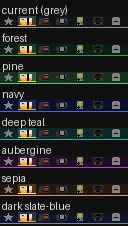
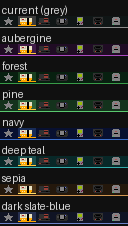
Picker: default theme aubergine — strongest grey-accent contrast
Reorders TAB_THEMES[] so aubergine sits at index 0. The picker_pref_t
.theme byte loads as 0 from any /.picker_view file (including ones
written before the theme byte existed and any written between the
theme-selector commit and this one), so this re-default applies
without a migration. Other themes still selectable via the picker
menu's Theme row.

Reordered both the C table in nes_picker.c and the Python source of
truth in tools/render_tab_themes.py so the next render-and-paste
round-trip stays consistent.

diff --git a/tools/render_tab_themes.py b/tools/render_tab_themes.py
@@ -56,14 +56,19 @@ ACTIVE_INDEX = 1   # which tab is "active" in the mockups — NES (slot 1 after 
 # but staying in the same colour family as the cells so it doesn't
 # look like a random accent stripe. Underline keeps the warm
 # yellow/orange accent (the "active tab" affordance is universal).
+# Order matters: index 0 is the default for new installs and for old
+# /.picker_view files written before the theme byte existed (the
+# previously-padding byte loads as 0). Aubergine wins as default
+# because the contrast against the icon greys is the strongest of
+# the eight options.
 THEMES = [
     # name,            inactive_bg,    active_bg,      underline,        separator
     ("current (grey)", (16, 22, 22),   (60, 60, 60),   (255, 166,   0), (140, 140, 140)),
+    ("aubergine",      (32, 12, 36),   (64, 28, 72),   (255, 200,  60), (170,  72, 190)),
     ("forest",         ( 8, 32, 16),   (24, 64, 32),   (255, 166,   0), ( 56, 156,  72)),
     ("pine",           (20, 50, 28),   (44, 96, 56),   (255, 200,  60), ( 90, 200, 110)),
     ("navy",           ( 8, 16, 48),   (24, 44, 88),   (255, 166,   0), ( 60, 110, 200)),
     ("deep teal",      ( 8, 40, 40),   (24, 76, 76),   (255, 200,  60), ( 50, 170, 170)),
-    ("aubergine",      (32, 12, 36),   (64, 28, 72),   (255, 200,  60), (170,  72, 190)),
     ("sepia",          (36, 24, 12),   (76, 52, 24),   (255, 220, 100), (210, 150,  80)),
     ("dark slate-blue",(16, 20, 36),   (40, 48, 80),   (255, 166,   0), (110, 130, 200)),
 ]

diff --git a/device/nes_picker.c b/device/nes_picker.c
@@ -3253,12 +3253,16 @@ typedef struct {
 
 #define TAB_THEME_COUNT 7
 
+/* Index 0 is the default for new installs and for /.picker_view
+ * files written before the theme byte existed (the previously-padding
+ * byte loads as 0). Aubergine wins as default — strongest contrast
+ * against the icons' grey accents of the seven options. */
 static const tab_theme_t TAB_THEMES[TAB_THEME_COUNT] = {
+    { /* aubergine      */ 0x2064, 0x40e9, 0xfe27, 0xaa57, "aubergine" },
     { /* forest         */ 0x0902, 0x1a04, 0xfd20, 0x3ce9, "forest" },
     { /* pine           */ 0x1183, 0x2b07, 0xfe27, 0x5e2d, "pine" },
     { /* navy           */ 0x0886, 0x196b, 0xfd20, 0x3b78, "navy" },
     { /* deep teal      */ 0x0945, 0x1a69, 0xfe27, 0x3555, "deep teal" },
-    { /* aubergine      */ 0x2064, 0x40e9, 0xfe27, 0xaa57, "aubergine" },
     { /* sepia          */ 0x20c1, 0x49a3, 0xfecc, 0xd4aa, "sepia" },
     { /* dark slate-blue*/ 0x10a4, 0x298a, 0xfd20, 0x6c18, "dark slate-blue" },
 };
